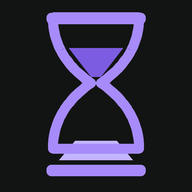
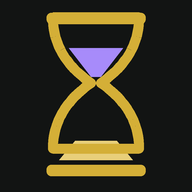
Add files via upload

Changed region(s): [[0.2188, 0.0625, 0.7812, 0.9375]]

diff --git a/css/estilo.css b/css/estilo.css
@@ -9,15 +9,15 @@
 /* Tema escuro. Cores centralizadas aqui para ajuste futuro. */
 :root {
   --fundo: #121413; --superficie: #1C1F1E; --borda: #2E3331;
-  --texto: #ECEDEA; --suave: #A3A8A4; --acento: #A78BFA; --acento-texto: #1A1033;
-  --alerta: #FBBF24; --alerta-fundo: #2B2410; --perigo: #F87171;
-  --zerado: #F87171; --zerado-fundo: #2E1414; --zerado-borda: #6B2424; --roxo: #60A5FA; --roxo-fundo: #16263D;
-  --azul: #7C5CE0; --azul-claro: #B9BFC9; --ouro-claro: #C4B5FD; --positivo: #34D399; --cartao: #252928;
+  --texto: #ECEDEA; --suave: #A3A8A4; --acento: #D4AF37; --acento-texto: #1A1405;
+  --alerta: #F2B84B; --alerta-fundo: #2B2410; --perigo: #FF7D7D;
+  --zerado: #FF7D7D; --zerado-fundo: #2E1414; --zerado-borda: #6B2424; --roxo: #2DD4BF; --roxo-fundo: #0F2A27;
+  --azul: #A78BFA; --azul-claro: #C4B5FD; --ouro-claro: #E8CF7A; --positivo: #3FD0A0; --cartao: #252928;
   --f-titulo: 'Fraunces', Georgia, serif; --f-texto: 'Inter', system-ui, sans-serif; --f-num: 'IBM Plex Mono', ui-monospace, monospace;
   --raio: 12px; color-scheme: dark;
 }
 * { box-sizing: border-box; }
-body { margin: 0; background: radial-gradient(120% 40% at 50% 0%, #1A1A22 0%, var(--fundo) 60%) fixed, var(--fundo); color: var(--texto); font-family: var(--f-texto); font-size: 15px; }
+body { margin: 0; background: radial-gradient(120% 40% at 50% 0%, #1E1B26 0%, var(--fundo) 60%) fixed, var(--fundo); color: var(--texto); font-family: var(--f-texto); font-size: 15px; }
 button, input, select { font: inherit; color: inherit; }
 button { cursor: pointer; }
 h1, h2, p { margin: 0; }
@@ -38,7 +38,7 @@ main { padding: 16px; max-width: 760px; margin: 0 auto; }
   .menu { position: sticky; top: 0; height: 100vh; width: 220px; display: flex; flex-direction: column; gap: 4px; border-top: 0; border-right: 1px solid var(--borda); padding: 20px 12px; }
   .menu .marca { display: block; font-weight: 700; font-size: 17px; padding: 0 10px 16px; }
   .menu button { flex-direction: row; gap: 10px; font-size: 14px; padding: 10px 12px; border-radius: 10px; min-height: 44px; }
-  .menu button.ativo { background: #2A2140; }
+  .menu button.ativo { background: #2B2412; }
   .conteudo { flex: 1; padding-bottom: 0; min-width: 0; }
 }
 
@@ -49,7 +49,7 @@ main { padding: 16px; max-width: 760px; margin: 0 auto; }
 .alerta { color: var(--alerta); font-weight: 600; }
 .vazio { color: var(--suave); padding: 12px 0; }
 .dica { color: var(--suave); font-size: 12px; }
-.selo { font-size: 12px; font-weight: 600; padding: 5px 10px; border-radius: 99px; background: #2A2140; color: var(--acento); }
+.selo { font-size: 12px; font-weight: 600; padding: 5px 10px; border-radius: 99px; background: #2B2412; color: var(--acento); }
 .selo.off { background: var(--alerta-fundo); color: var(--alerta); }
 
 .linha { display: flex; align-items: center; gap: 8px; background: var(--superficie); border: 1px solid var(--borda); border-radius: var(--raio); padding: 8px 10px; min-height: 56px; text-align: left; width: 100%; }
@@ -107,7 +107,7 @@ main { padding: 16px; max-width: 760px; margin: 0 auto; }
 .dia { display: flex; flex-direction: column; align-items: center; gap: 1px; padding: 6px 0; border-radius: 10px; border: 1px solid var(--borda); background: var(--superficie); }
 .dia small { font-size: 10px; color: var(--suave); }
 .dia b { font-size: 16px; }
-.dia.sel { border-color: var(--acento); background: #2A2140; }
+.dia.sel { border-color: var(--acento); background: #2B2412; }
 .dia.hoje b { color: var(--acento); }
 .dia.fut { opacity: .45; }
 .btn-mini { width: 32px; height: 44px; border: 0; background: none; color: var(--suave); font-size: 22px; flex: none; }
@@ -116,9 +116,9 @@ main { padding: 16px; max-width: 760px; margin: 0 auto; }
 .mini-cartao { background: var(--superficie); border: 1px solid var(--borda); border-radius: 12px; padding: 8px 10px; display: flex; flex-direction: column; }
 .mini-cartao small { font-size: 11px; color: var(--suave); }
 .mini-cartao b { font-size: 22px; }
-.linha.ok { border-color: #4C3A80; }
+.linha.ok { border-color: #5A4A1A; }
 .btn-st { width: 44px; height: 44px; border-radius: 10px; border: 1px solid var(--borda); background: #252928; color: var(--suave); font-size: 18px; flex: none; }
-.btn-st.f.on { background: var(--acento); border-color: var(--acento); color: #1A1033; }
+.btn-st.f.on { background: var(--acento); border-color: var(--acento); color: #1A1405; }
 .btn-st.n.on { background: var(--perigo); border-color: var(--perigo); color: #2A0A0A; }
 .selo-st { font-size: 12px; font-weight: 600; white-space: nowrap; }
 .selo-st.f { color: var(--acento); } .selo-st.n { color: var(--perigo); } .selo-st.p { color: var(--suave); } .selo-st.x { color: #6B706C; }
@@ -135,7 +135,7 @@ main { padding: 16px; max-width: 760px; margin: 0 auto; }
 .cal.cab { text-align: center; font-size: 11px; color: var(--suave); }
 .cel { height: 42px; border-radius: 8px; border: 2px solid transparent; font-weight: 600; font-size: 13px; color: var(--texto); }
 .cel.hoje { border-color: var(--acento); } .cel.sel { border-color: var(--texto); }
-.c4, .legenda i.c4 { background: #A78BFA; color: #1A1033; } .c3, .legenda i.c3 { background: #5B3FA8; }
+.c4, .legenda i.c4 { background: #D4AF37; color: #1A1405; } .c3, .legenda i.c3 { background: #6D4FC2; }
 .c2, .legenda i.c2 { background: #6B5310; } .c1, .legenda i.c1 { background: #7F1D1D; }
 .cel.sem, .legenda i.sem { background: #252928; color: var(--suave); } .cel.fut { background: var(--superficie); color: #6B706C; }
 .legenda { display: flex; flex-wrap: wrap; gap: 10px; font-size: 11px; color: var(--suave); }
@@ -143,7 +143,7 @@ main { padding: 16px; max-width: 760px; margin: 0 auto; }
 .item-hist, .item-agua { padding: 6px 0; border-top: 1px solid var(--borda); font-size: 14px; }
 .chips { display: flex; gap: 6px; flex-wrap: wrap; }
 .chip { height: 36px; padding: 0 14px; border-radius: 99px; border: 1px solid var(--borda); background: none; font-size: 13px; }
-.chip.ativo { border-color: var(--acento); background: #2A2140; }
+.chip.ativo { border-color: var(--acento); background: #2B2412; }
 .pilha-p { display: flex; flex-direction: column; gap: 4px; }
 .sub-falha { display: flex; align-items: center; gap: 8px; padding-left: 12px; font-size: 12px; color: var(--suave); }
 .sub-falha span:first-child { width: 80px; } .sub-falha span:last-child { width: 36px; text-align: right; }
@@ -158,7 +158,7 @@ main { padding: 16px; max-width: 760px; margin: 0 auto; }
 .grafico-agua em { position: absolute; left: 0; right: 0; border-top: 1px dashed var(--suave); }
 .dias-alarme { display: flex; justify-content: space-between; }
 .dias-alarme button { width: 42px; height: 42px; border-radius: 50%; border: 1px solid #4A504D; background: none; color: var(--suave); font-weight: 700; }
-.dias-alarme button.on { background: var(--acento); border-color: var(--acento); color: #1A1033; }
+.dias-alarme button.on { background: var(--acento); border-color: var(--acento); color: #1A1405; }
 .horarios { display: flex; flex-wrap: wrap; gap: 6px; align-items: center; }
 .hora-item { display: flex; align-items: center; background: var(--fundo); border: 1px solid var(--borda); border-radius: 10px; padding-left: 8px; }
 .hora-item input { height: 40px; border: 0; background: none; color-scheme: dark; }
@@ -171,14 +171,14 @@ main { padding: 16px; max-width: 760px; margin: 0 auto; }
 /* ---------- v0.2.1 ---------- */
 .abas-seg.cinco button { font-size: 12.5px; padding: 0 2px; }
 .btn-st.o { font-size: 15px; font-weight: 700; }
-.btn-st.o.on { background: var(--roxo); border-color: var(--roxo); color: #0B1A2E; }
+.btn-st.o.on { background: var(--roxo); border-color: var(--roxo); color: #06201C; }
 .selo-st.o { color: var(--acento); }
 .dia.viagem { border-color: var(--roxo); background: var(--roxo-fundo); }
 .dia.viagem.sel { outline: 2px solid var(--acento); }
-.cel.viagem, .legenda i.viagem { background: #2563EB; color: #fff; }
-.faixa-viagem { display: flex; align-items: center; justify-content: space-between; gap: 8px; padding: 10px 12px; border-radius: 12px; background: var(--roxo-fundo); border: 1px solid #1E4A80; color: #DBEAFE; font-size: 13px; }
-.btn-viagem { align-self: flex-start; height: 36px; font-size: 13px; color: #93C5FD; }
-.viagem-linha { border-color: #1E4A80; }
+.cel.viagem, .legenda i.viagem { background: #0F766E; color: #fff; }
+.faixa-viagem { display: flex; align-items: center; justify-content: space-between; gap: 8px; padding: 10px 12px; border-radius: 12px; background: var(--roxo-fundo); border: 1px solid #1F4D47; color: #CCFBF1; font-size: 13px; }
+.btn-viagem { align-self: flex-start; height: 36px; font-size: 13px; color: #5EEAD4; }
+.viagem-linha { border-color: #1F4D47; }
 .linha.tracejada { border-style: dashed; background: none; }
 .linha.apagada { opacity: .7; }
 .opcao { padding: 8px 0; border-top: 1px solid var(--borda); }
@@ -216,18 +216,18 @@ button.selo { border: 0; cursor: pointer; }
 .cab-sec { font-size: 12px; color: var(--suave); padding: 10px 0 4px; }
 .aula { display: flex; align-items: center; gap: 10px; border: 0; border-top: 1px solid #252928; background: none; padding: 9px 0; text-align: left; min-height: 44px; }
 .caixa-check { width: 24px; height: 24px; flex: none; border-radius: 7px; border: 2px solid #4A504D; display: flex; align-items: center; justify-content: center; font-size: 14px; font-weight: 700; }
-.caixa-check.on { background: var(--acento); border-color: var(--acento); color: #1A1033; }
+.caixa-check.on { background: var(--acento); border-color: var(--acento); color: #1A1405; }
 .acoes-uni { display: flex; flex-wrap: wrap; gap: 6px; margin-top: 10px; }
 .acoes-uni .btn { height: 38px; font-size: 13px; }
 .btn-link { border: 0; background: none; color: var(--acento); font-size: 13px; text-decoration: underline; padding: 4px; }
 .btn-link.perigo { color: var(--perigo); }
-.btn.feito { border-color: var(--acento); background: #2A2140; color: var(--acento); }
+.btn.feito { border-color: var(--acento); background: #2B2412; color: var(--acento); }
 .centro-col { display: flex; flex-direction: column; align-items: center; gap: 2px; }
 .ofensiva { color: #FB923C; font-weight: 800; }
 .grande-2 { font-size: 48px; } .grande-3 { font-size: 22px; }
 .duo-hist { display: grid; grid-template-columns: repeat(14, 1fr); gap: 3px; }
 .duo-hist span { height: 28px; border-radius: 6px; display: flex; align-items: center; justify-content: center; font-size: 11px; font-weight: 700; background: #252928; color: #6B706C; }
-.duo-hist span.feito { background: #FBBF24; color: #2B2410; }
+.duo-hist span.feito { background: #F2B84B; color: #2B2410; }
 .duo-hist span.feito.x { background: #A78BFA; color: #1A1033; }
 .duo-hist span.hoje { outline: 2px solid var(--texto); }
 .grafico-rating { display: flex; align-items: flex-end; gap: 4px; height: 70px; border-bottom: 1px solid var(--borda); }
@@ -257,14 +257,14 @@ html, body { overflow-x: hidden; }
 .linha, .cartao, .mini-cartao, .caixa, .caixa-uni, .cartao-disc { background: rgba(28, 31, 30, .92); }
 .menu { background: #1C1F1E; }
 .menu button.ativo { color: var(--ouro-claro); }
-@media (min-width: 900px) { .menu button.ativo { background: #2A2140; } }
-.selo { background: #2A2140; color: var(--ouro-claro); }
-.toast { background: var(--ouro-claro); color: #1A1033; font-weight: 600; }
+@media (min-width: 900px) { .menu button.ativo { background: #2B2412; } }
+.selo { background: #2B2412; color: var(--ouro-claro); }
+.toast { background: var(--ouro-claro); color: #1A1405; font-weight: 600; }
 .btn-engr { width: 36px; height: 36px; border-radius: 10px; border: 1px solid var(--borda); background: var(--superficie); color: var(--texto); display: inline-flex; align-items: center; justify-content: center; padding: 0; }
 .btn-engr svg { width: 18px; height: 18px; fill: none; stroke: currentColor; stroke-width: 2; }
 .topo-acoes { display: flex; align-items: center; gap: 8px; }
 .marca-amp { width: 18px; height: 24px; flex: none; }
-.c4, .legenda i.c4 { color: #1A1033; }
+.c4, .legenda i.c4 { color: #1A1405; }
 
 /* ---------- Finanças (v0.5.0): carteira + painel atuarial + livro-razão ---------- */
 .pin-tela { display: flex; flex-direction: column; align-items: center; gap: 12px; padding: 24px 0; }
@@ -290,10 +290,10 @@ html, body { overflow-x: hidden; }
 .num-p { font-size: 15px !important; }
 .pequeno { font-size: 13px; }
 .carteira { display: flex; gap: 10px; overflow-x: auto; padding-bottom: 6px; scroll-snap-type: x mandatory; }
-.cartao-conta { flex: none; width: 220px; min-height: 140px; border-radius: 18px; padding: 14px; display: flex; flex-direction: column; gap: 8px; box-shadow: 0 10px 24px rgba(0,0,0,.45); border: 1px solid rgba(255,255,255,.08); scroll-snap-align: start; text-align: left; }
+.cartao-conta { flex: none; width: 220px; min-height: 140px; border-radius: 18px; padding: 14px; display: flex; flex-direction: column; gap: 8px; box-shadow: 0 10px 24px rgba(0,0,0,.45); border: 1px solid rgba(232, 207, 122, .35); scroll-snap-align: start; text-align: left; }
 .cartao-conta.nova { background: none; border: 1px dashed #4A504D; color: var(--suave); align-items: center; justify-content: center; box-shadow: none; width: 120px; font-weight: 600; }
 .etq { font-size: 10px; font-weight: 700; padding: 2px 7px; border-radius: 6px; background: rgba(0,0,0,.28); }
-.chip-ouro { width: 34px; height: 24px; border-radius: 5px; background: linear-gradient(135deg, #DDD3FF, #6D4FC2); }
+.chip-ouro { width: 34px; height: 24px; border-radius: 5px; background: linear-gradient(135deg, #F3DC8C, #B8902A); }
 .saldo-c { font-family: var(--f-num); font-size: 19px; }
 .rodape-c { font-size: 11px; opacity: .85; }
 .duas-moedas { display: grid; grid-template-columns: 1fr 1fr; gap: 6px; }
@@ -332,6 +332,6 @@ html, body { overflow-x: hidden; }
 .estilos button.on { border-color: var(--texto); }
 .mini-cartao-cor { width: 34px; height: 24px; border-radius: 6px; flex: none; }
 .btn-sem { border: 0; background: none; padding: 0; text-align: left; flex-wrap: wrap; }
-.lembrete-conta { text-decoration: none; color: inherit; border-color: #4C3A80; }
-.fin .chip.ativo { border-color: var(--acento); background: #2A2140; }
+.lembrete-conta { text-decoration: none; color: inherit; border-color: #5A4A1A; }
+.fin .chip.ativo { border-color: var(--acento); background: #2B2412; }
 .aviso-inicio { font-size: 12px; color: var(--alerta); background: #2B2410; border: 1px solid #5C4A16; border-radius: 10px; padding: 8px 10px; }

diff --git a/js/modulos/fin-resumo.js b/js/modulos/fin-resumo.js
@@ -39,10 +39,10 @@ export default {
   <div class="pilha">
     <div class="fin-hero">
       <svg class="amp-medidor" viewBox="0 0 86 120" role="img" :aria-label="Math.round(f.resta*100) + '% do que entrou ainda resta'">
-        <rect x="10" y="2" width="66" height="6" rx="3" fill="#A78BFA"/><rect x="10" y="112" width="66" height="6" rx="3" fill="#A78BFA"/>
-        <path d="M16 10h54c0 22-18 32-24 50 6 18 24 28 24 50H16c0-22 18-32 24-50-6-18-24-28-24-50z" fill="none" stroke="#A78BFA" stroke-width="2"/>
-        <polygon :points="areia.cima" fill="#7C5CE0"/><polygon :points="areia.baixo" fill="#C4B5FD"/>
-        <line x1="43" y1="56" x2="43" y2="84" stroke="#C4B5FD" stroke-width="1.5" stroke-dasharray="2 3"/>
+        <rect x="10" y="2" width="66" height="6" rx="3" fill="#D4AF37"/><rect x="10" y="112" width="66" height="6" rx="3" fill="#D4AF37"/>
+        <path d="M16 10h54c0 22-18 32-24 50 6 18 24 28 24 50H16c0-22 18-32 24-50-6-18-24-28-24-50z" fill="none" stroke="#D4AF37" stroke-width="2"/>
+        <polygon :points="areia.cima" fill="#A78BFA"/><polygon :points="areia.baixo" fill="#E8CF7A"/>
+        <line x1="43" y1="56" x2="43" y2="84" stroke="#E8CF7A" stroke-width="1.5" stroke-dasharray="2 3"/>
       </svg>
       <div class="pilha-p cresce">
         <small class="rot">{{ rotSaldo }}</small>
@@ -105,10 +105,10 @@ export default {
       <div class="entre"><b class="pequeno">Projeção até o fim do mês</b><small class="suave">≈ {{ fmtR(proj.fim, 0) }}</small></div>
       <svg width="100%" height="96" viewBox="0 0 330 96" role="img" aria-label="Projeção do saldo até o fim do mês">
         <line x1="0" y1="88" x2="330" y2="88" stroke="#2E3331"/>
-        <path :d="'M' + proj.hoje + ' ' + proj.yHoje + ' L330 ' + proj.yMax + ' L330 ' + proj.yMin + ' Z'" fill="#7C5CE0" opacity=".25"/>
-        <line x1="0" :y1="proj.yHoje" :x2="proj.hoje" :y2="proj.yHoje" stroke="#B9BFC9" stroke-width="2.5"/>
-        <line :x1="proj.hoje" :y1="proj.yHoje" x2="330" :y2="proj.yFim" stroke="#A78BFA" stroke-width="2.5" stroke-dasharray="6 5"/>
-        <circle :cx="proj.hoje" :cy="proj.yHoje" r="4" fill="#A78BFA"/>
+        <path :d="'M' + proj.hoje + ' ' + proj.yHoje + ' L330 ' + proj.yMax + ' L330 ' + proj.yMin + ' Z'" fill="#A78BFA" opacity=".25"/>
+        <line x1="0" :y1="proj.yHoje" :x2="proj.hoje" :y2="proj.yHoje" stroke="#C4B5FD" stroke-width="2.5"/>
+        <line :x1="proj.hoje" :y1="proj.yHoje" x2="330" :y2="proj.yFim" stroke="#D4AF37" stroke-width="2.5" stroke-dasharray="6 5"/>
+        <circle :cx="proj.hoje" :cy="proj.yHoje" r="4" fill="#D4AF37"/>
       </svg>
       <small class="suave">Considera contas fixas pendentes e o ritmo de gastos do mês.</small>
     </div>

diff --git a/js/app.js b/js/app.js
@@ -59,14 +59,14 @@ const App = {
   template: `
   <div class="casca">
     <nav class="menu" aria-label="Menu principal">
-      <span class="marca"><svg class="marca-amp" viewBox="0 0 86 120" aria-hidden="true"><path d="M16 10h54c0 22-18 32-24 50 6 18 24 28 24 50H16c0-22 18-32 24-50-6-18-24-28-24-50z" fill="none" stroke="#A78BFA" stroke-width="7"/><path d="M22 108c2-14 13-20 21-26 8 6 19 12 21 26z" fill="#C4B5FD"/></svg> Organizador</span>
+      <span class="marca"><svg class="marca-amp" viewBox="0 0 86 120" aria-hidden="true"><path d="M16 10h54c0 22-18 32-24 50 6 18 24 28 24 50H16c0-22 18-32 24-50-6-18-24-28-24-50z" fill="none" stroke="#D4AF37" stroke-width="7"/><path d="M22 108c2-14 13-20 21-26 8 6 19 12 21 26z" fill="#E8CF7A"/></svg> Organizador</span>
       <button v-for="m in menu" :key="m.k" :class="{ ativo: aba===m.k }" @click="ir(m.k)" :aria-current="aba===m.k ? 'page' : null">
         <svg viewBox="0 0 24 24" aria-hidden="true" v-html="m.icone"></svg><span>{{ m.nome }}</span>
       </button>
     </nav>
     <div class="conteudo">
       <header class="topo">
-        <h1><svg class="marca-amp" viewBox="0 0 86 120" aria-hidden="true"><path d="M16 10h54c0 22-18 32-24 50 6 18 24 28 24 50H16c0-22 18-32 24-50-6-18-24-28-24-50z" fill="none" stroke="#A78BFA" stroke-width="7"/><path d="M22 108c2-14 13-20 21-26 8 6 19 12 21 26z" fill="#C4B5FD"/></svg>{{ atual.titulo }}</h1>
+        <h1><svg class="marca-amp" viewBox="0 0 86 120" aria-hidden="true"><path d="M16 10h54c0 22-18 32-24 50 6 18 24 28 24 50H16c0-22 18-32 24-50-6-18-24-28-24-50z" fill="none" stroke="#D4AF37" stroke-width="7"/><path d="M22 108c2-14 13-20 21-26 8 6 19 12 21 26z" fill="#E8CF7A"/></svg>{{ atual.titulo }}</h1>
         <div class="topo-acoes">
           <button class="selo" :class="selo.cls" @click="clicarSelo">{{ selo.txt }}</button>
           <button class="btn-engr" @click="ir('mais')" aria-label="Configurações"><svg viewBox="0 0 24 24" aria-hidden="true"><circle cx="12" cy="12" r="3"/><path d="M19.4 15a1.7 1.7 0 0 0 .3 1.8l.1.1a2 2 0 1 1-2.8 2.8l-.1-.1a1.7 1.7 0 0 0-1.8-.3 1.7 1.7 0 0 0-1 1.5V21a2 2 0 1 1-4 0v-.1a1.7 1.7 0 0 0-1.1-1.5 1.7 1.7 0 0 0-1.8.3l-.1.1a2 2 0 1 1-2.8-2.8l.1-.1a1.7 1.7 0 0 0 .3-1.8 1.7 1.7 0 0 0-1.5-1H3a2 2 0 1 1 0-4h.1a1.7 1.7 0 0 0 1.5-1.1 1.7 1.7 0 0 0-.3-1.8l-.1-.1a2 2 0 1 1 2.8-2.8l.1.1a1.7 1.7 0 0 0 1.8.3H9a1.7 1.7 0 0 0 1-1.5V3a2 2 0 1 1 4 0v.1a1.7 1.7 0 0 0 1 1.5 1.7 1.7 0 0 0 1.8-.3l.1-.1a2 2 0 1 1 2.8 2.8l-.1.1a1.7 1.7 0 0 0-.3 1.8V9a1.7 1.7 0 0 0 1.5 1H21a2 2 0 1 1 0 4h-.1a1.7 1.7 0 0 0-1.5 1z"/></svg></button>

diff --git a/js/modulos/fin-lancar.js b/js/modulos/fin-lancar.js
@@ -75,8 +75,8 @@ export default {
     <label class="campo">Valor{{ f.tipo==='transf' ? ' (saindo)' : '' }} ({{ (f.tipo==='transf' ? moedaDe : moedaOrigem)==='USD' ? 'US$' : 'R$' }}) <input v-model="f.valor" inputmode="decimal" class="valor-g" autofocus></label>
     <label class="campo">Descrição <input v-model="f.descricao" :placeholder="f.tipo==='transf' ? 'Ex.: Retirada, Conversão, Pagamento fatura' : ''"></label>
     <template v-if="f.tipo!=='transf'">
-      <div class="chips"><button v-for="c in cats" :key="c.id" class="chip-cat" :style="f.cat===c.id ? { background: tom(c.hue, 0), borderColor: tom(c.hue, 0), color: '#1A1033' } : {}" @click="f.cat=c.id; f.sub=''">{{ c.nome }}</button></div>
-      <div v-if="subs.length" class="chips"><button v-for="(s, i) in subs" :key="s.id" class="chip-cat" :style="f.sub===s.id ? { background: tom(s.hue, i + 1), borderColor: tom(s.hue, i + 1), color: '#1A1033' } : {}" @click="f.sub = f.sub===s.id ? '' : s.id">{{ s.nome }}</button></div>
+      <div class="chips"><button v-for="c in cats" :key="c.id" class="chip-cat" :style="f.cat===c.id ? { background: tom(c.hue, 0), borderColor: tom(c.hue, 0), color: '#121413' } : {}" @click="f.cat=c.id; f.sub=''">{{ c.nome }}</button></div>
+      <div v-if="subs.length" class="chips"><button v-for="(s, i) in subs" :key="s.id" class="chip-cat" :style="f.sub===s.id ? { background: tom(s.hue, i + 1), borderColor: tom(s.hue, i + 1), color: '#121413' } : {}" @click="f.sub = f.sub===s.id ? '' : s.id">{{ s.nome }}</button></div>
       <div class="grade-2">
         <label class="campo">Conta ou cartão <select v-model="f.origem"><option value="" disabled>Escolha…</option><option v-for="o in opcoesOrigem" :key="o.v" :value="o.v">{{ o.t }}</option></select></label>
         <label class="campo">Data <input type="date" v-model="f.data"></label>

diff --git a/js/modulos/financas.js b/js/modulos/financas.js
@@ -9,7 +9,7 @@ import { Lancamentos, Categorias, Metas } from './fin-listas.js';
 import Lancar from './fin-lancar.js';
 import Config from './fin-config.js';
 
-const AMP = `<svg viewBox="0 0 86 120" aria-hidden="true"><rect x="10" y="2" width="66" height="6" rx="3" fill="#A78BFA"/><rect x="10" y="112" width="66" height="6" rx="3" fill="#A78BFA"/><path d="M16 10h54c0 22-18 32-24 50 6 18 24 28 24 50H16c0-22 18-32 24-50-6-18-24-28-24-50z" fill="none" stroke="#A78BFA" stroke-width="3"/><path d="M24 26h38c-3 10-12 16-19 28-7-12-16-18-19-28z" fill="#7C5CE0"/><path d="M22 108c2-14 13-20 21-26 8 6 19 12 21 26z" fill="#C4B5FD"/></svg>`;
+const AMP = `<svg viewBox="0 0 86 120" aria-hidden="true"><rect x="10" y="2" width="66" height="6" rx="3" fill="#D4AF37"/><rect x="10" y="112" width="66" height="6" rx="3" fill="#D4AF37"/><path d="M16 10h54c0 22-18 32-24 50 6 18 24 28 24 50H16c0-22 18-32 24-50-6-18-24-28-24-50z" fill="none" stroke="#D4AF37" stroke-width="3"/><path d="M24 26h38c-3 10-12 16-19 28-7-12-16-18-19-28z" fill="#A78BFA"/><path d="M22 108c2-14 13-20 21-26 8 6 19 12 21 26z" fill="#E8CF7A"/></svg>`;
 
 export default {
   components: { Resumo, Lancamentos, Categorias, Metas, Lancar, Config },

diff --git a/js/servicos/fin-servico.js b/js/servicos/fin-servico.js
@@ -257,7 +257,7 @@ export function criarFin(D, visao = 'pf', mes = mesDe(D.hoje)) {
   };
   const lancsMes = doMes.filter((l) => l.tipo === 'transf' ? (visao === 'tudo' || naVisao(pessoaDe(l.de)) || naVisao(pessoaDe(l.para))) : naVisao(pessoaLanc(l)))
     .sort((a, b) => b.data.localeCompare(a.data) || b.atualizadoEm.localeCompare(a.atualizadoEm))
-    .map((l) => { const t = topo(l.categoriaId); return { ...l, sub: descLanc(l), cor: l.tipo === 'transf' ? '#B9BFC9' : t ? tom(t.hue, 0) : l.tipo === 'rec' ? '#34D399' : '#94A3BF',
+    .map((l) => { const t = topo(l.categoriaId); return { ...l, sub: descLanc(l), cor: l.tipo === 'transf' ? '#C4B5FD' : t ? tom(t.hue, 0) : l.tipo === 'rec' ? '#3FD0A0' : '#94A3BF',
       mostra: l.tipo === 'transf' ? l.valorDe : (l.valorBRL ?? l.valor), moedaTxt: l.tipo !== 'transf' && l.moeda === 'USD' ? fmtU(l.valor) : (l.tipo === 'transf' && l.de?.moeda === 'USD' ? fmtU(l.valorDe) + ' → ' + fmtR(l.valorPara) : '') }; });
 
   // Metas (caixinhas com meta)

diff --git a/js/modulos/rotina-viagem.js b/js/modulos/rotina-viagem.js
@@ -51,7 +51,7 @@ export default {
       <span>{{ a.nome }}</span>
       <input type="checkbox" class="check-g" :checked="f.atividades.includes(a.id)" :disabled="inicioTravado" @change="alternar(a.id)">
     </label>
-    <p class="dica">Os dias de viagem ficam azuis no calendário e não contam em nenhum percentual nem nas falhas.{{ inicioTravado ? ' Viagem já iniciada: só o fim pode mudar.' : '' }}</p>
+    <p class="dica">Os dias de viagem ficam verde-água no calendário e não contam em nenhum percentual nem nas falhas.{{ inicioTravado ? ' Viagem já iniciada: só o fim pode mudar.' : '' }}</p>
     <div class="acoes">
       <button v-if="!nova && !inicioTravado" class="btn perigo" @click="excluir">Excluir</button>
       <span class="espaco"></span>

diff --git a/js/modulos/config.js b/js/modulos/config.js
@@ -4,7 +4,7 @@ import { db, vivo, agora as agoraISO } from '../db.js';
 import { avisar, Modal } from '../ui.js';
 import { sync, conectar, resolverPrimeira, desconectar, sincronizar, carregarLogin, ID_FIXO } from '../sync.js';
 
-export const VERSAO = '0.5.1';
+export const VERSAO = '0.5.2';
 
 export default {
   components: { Modal },

diff --git a/LEIA-ME.md b/LEIA-ME.md
@@ -1,4 +1,4 @@
-# Organizador Pessoal — v0.5.1 (Rotina, Estudos, Finanças, Compras — tema grafite + roxo)
+# Organizador Pessoal — v0.5.2 (Rotina, Estudos, Finanças, Compras — grafite + dourado + roxo)
 
 ## Publicar no GitHub Pages (sem instalar nada)
 1. Crie uma conta em github.com (gratuita).
